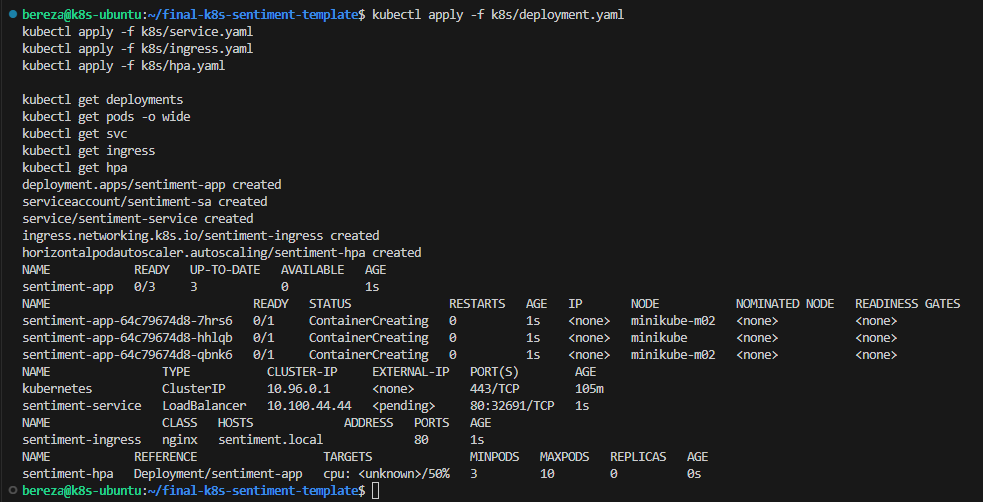
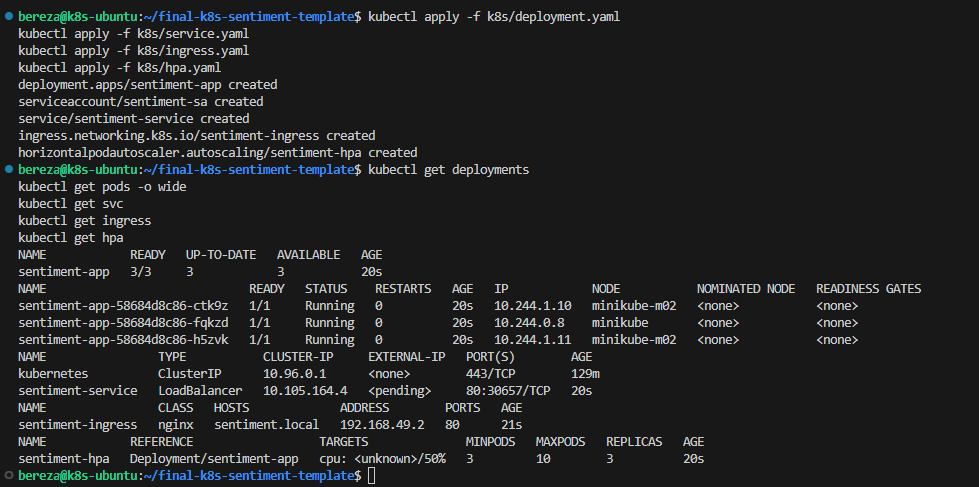
Completed the deployment of the application in Kubernetes

Changed region(s): [[0.0, 0.0, 0.9806, 1.0]]

diff --git a/Report. Development and deployment AI in k8s.md b/Report. Development and deployment AI in k8s.md
@@ -283,40 +283,25 @@ kubectl port-forward svc/sentiment-service 8080:80
 curl "http://localhost:8080/api/sentiment?text=I+like+Kubernetes"
 ```
 
-**СКРИНШОТ:** port‑forward + curl  
-`![](screenshots/05_k8s/05.2_port_forward_test.png)`
+![port‑forward + curl](screenshots/05_k8s/05.2_port_forward_test.png)
 
 ### 5.3.2. Через Ingress
 
-1) Узнать IP Minikube:
-
-```bash
-minikube ip
-```
-
-2) Прописать host в `/etc/hosts` (на Ubuntu VM):
-
-```text
-<MINIKUBE_IP>  sentiment.local
-```
-
-3) Убедиться, что запущен `minikube tunnel` (см. п. 3.3)
-
-Проверка:
+После настройки /etc/hosts и запуска minikube tunnel:
 
 ```bash
 curl "http://sentiment.local/api/sentiment?text=hello"
 curl "http://sentiment.local/health"
 ```
 
-**СКРИНШОТ:** curl по `sentiment.local`  
-`![](screenshots/05_k8s/05.3_ingress_test.png)`
+![sentiment.local](screenshots/05_k8s/05.3_ingress_test.png)
 
 ## 5.4. Проверка работы HPA
 
 Создаю нагрузку:
 
 ```bash
+cd ~/final-k8s-sentiment-template/app
 kubectl run load-generator --image=busybox --restart=Never -- /bin/sh -c 'while true; do wget -q -O- http://sentiment-service/api/sentiment?text=load; done'
 ```
 
@@ -327,8 +312,8 @@ kubectl get hpa -w
 kubectl get pods -w
 ```
 
-**СКРИНШОТ:** рост нагрузки / изменение реплик  
-`![](screenshots/05_k8s/05.4_hpa_scaling.png)`
+![Создаю нагрузку](screenshots/05_k8s/05.4_hpa_scaling.png)
+![рост нагрузки / изменение реплик](screenshots/05_k8s/05.5_hpa_scaling.png)
 
 ---
 
